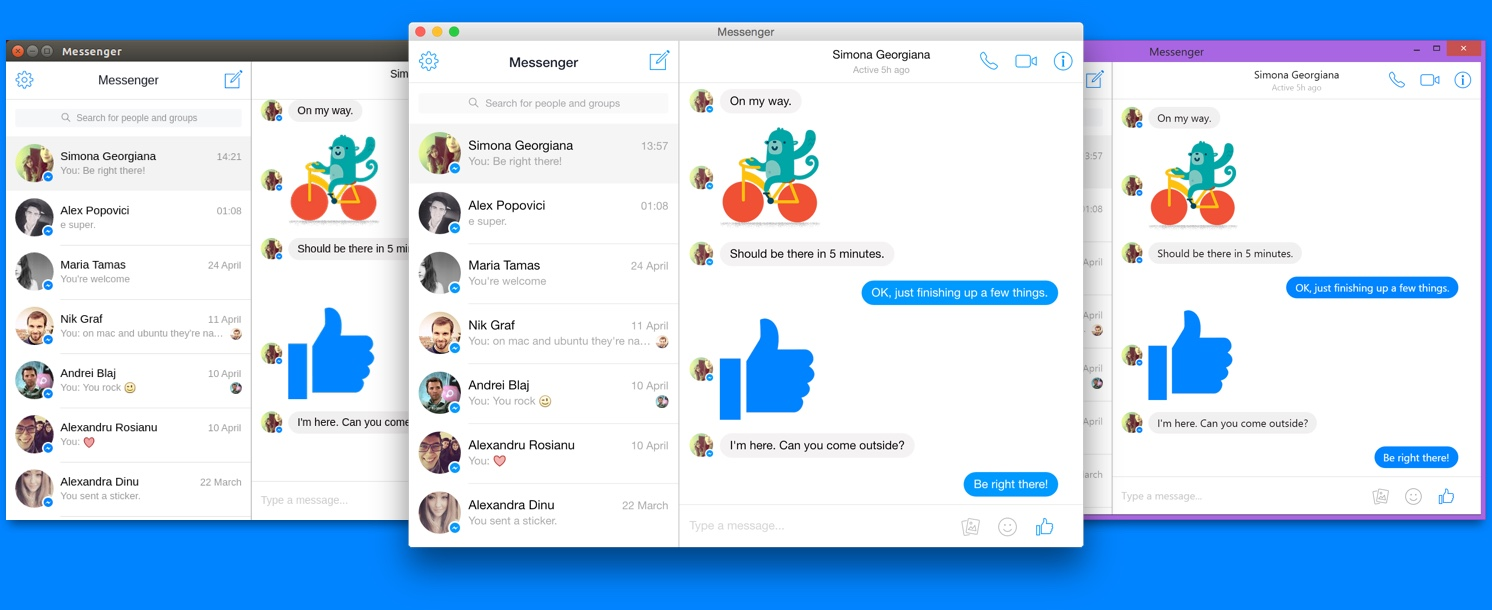
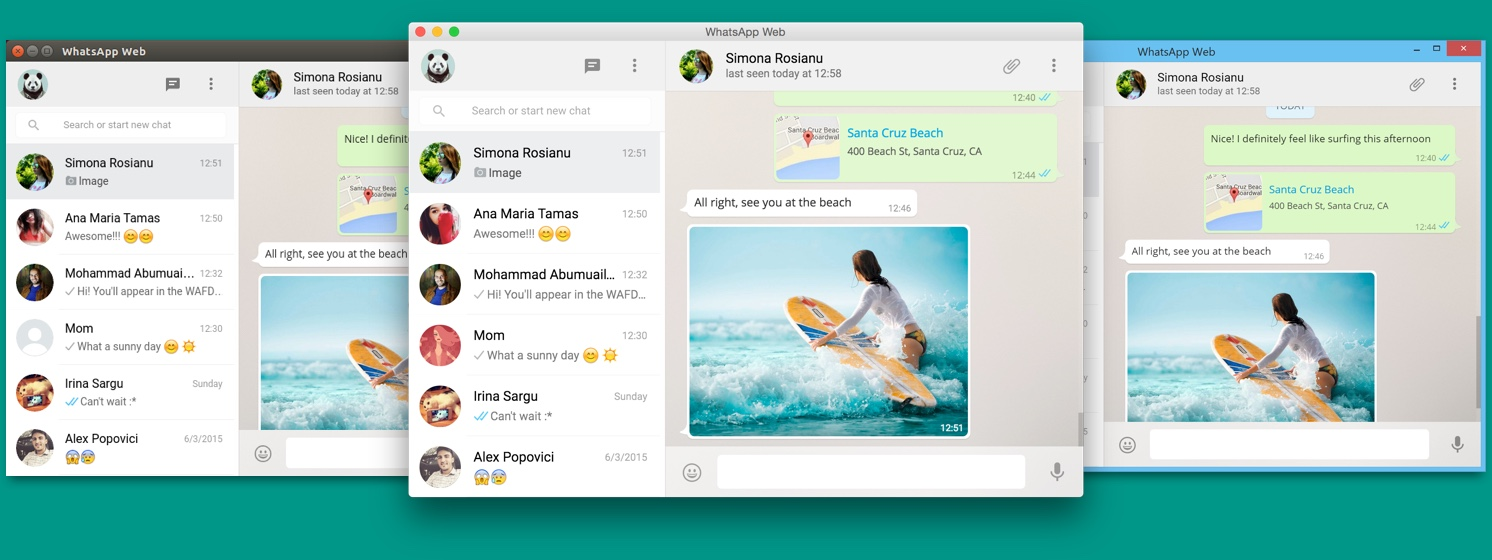
WAFDified

diff --git a/src/sass/styles.sass b/src/sass/styles.sass
@@ -1,7 +1,7 @@
 @import ../bower_components/bourbon/dist/bourbon
 @import ../bower_components/neat/app/assets/stylesheets/neat
 
-$blue: #0084FF
+$blue: #009688
 $font-thin: 'HelveticaNeue-Thin', 'Helvetica Neue Light', 'Helvetica Neue', 'Segoe UI', Helvetica, Arial, 'Lucida Grande', sans-serif
 $font-normal: 'Helvetica Neue', 'Segoe UI', Helvetica, Arial, 'Lucida Grande', sans-serif
 $mobile: new-breakpoint(max-width 779px)
@@ -102,16 +102,16 @@ section#header
 section#platforms
   padding-bottom: 70px
 
-section#messenger-features
+section#whatsapp-features
   @include media($mobile)
     li, .tile
       display: inline-block
 
   li
-    a
-      display: inline-block
-      max-width: 140px
-      margin: 20px
+    span
+      border-radius: 3px
+      margin-top: 20px
+      margin-bottom: 20px
 
     @include media($desktop)
       @include span-columns(4)
@@ -120,6 +120,10 @@ section#messenger-features
       margin-top: 0
       font-size: 18px
       color: #333
+
+  .button
+    margin-bottom: 0
+    margin-top: 50px
 
 section#features
   li
@@ -133,7 +137,7 @@ section#features
       margin: 15px 0 0
       font-weight: 300
 
-    img
+    span
       border-radius: 2px
       border: 3px solid white
       box-shadow: rgba(0, 0, 0, 0.2) 0 0 3px 1px
@@ -174,6 +178,9 @@ section#featured
 
   svg
     height: 33px
+
+  p
+    font-size: 18px
 
 section#contribute
   li
@@ -231,12 +238,6 @@ section#contact
       border-bottom-right-radius: 2px
 
 section#share
-  padding-bottom: 160px
-  background: url(img/footer.png)
-  background-position: bottom center
-  background-repeat: no-repeat
-  background-size: 980px auto
-
   li.widget
     margin-bottom: 30px
 
@@ -290,3 +291,36 @@ footer
 
 .clearfix:after
     clear: both
+
+=stitches-sprite($x: 0, $y: 0, $width: 0, $height: 0)
+  background-position: $x $y
+  width: $width
+  height: $height
+
+.feature
+  background-image: url(img/features.png)
+  background-repeat: no-repeat
+  display: inline-block
+
+  &.feature-1
+    +stitches-sprite(0, 0, 230px, 200px)
+
+  &.feature-2
+    +stitches-sprite(-230px, 0, 230px, 200px)
+
+  &.feature-3
+    +stitches-sprite(-460px, 0, 230px, 200px)
+
+.wafeature
+  background-image: url(img/wafeatures.jpg)
+  background-repeat: no-repeat
+  display: inline-block
+
+  &.wafeature-1
+    +stitches-sprite(0, 0, 163px, 95px)
+
+  &.wafeature-2
+    +stitches-sprite(-163px, 0, 163px, 95px)
+
+  &.wafeature-3
+    +stitches-sprite(-326px, 0, 163px, 95px)
